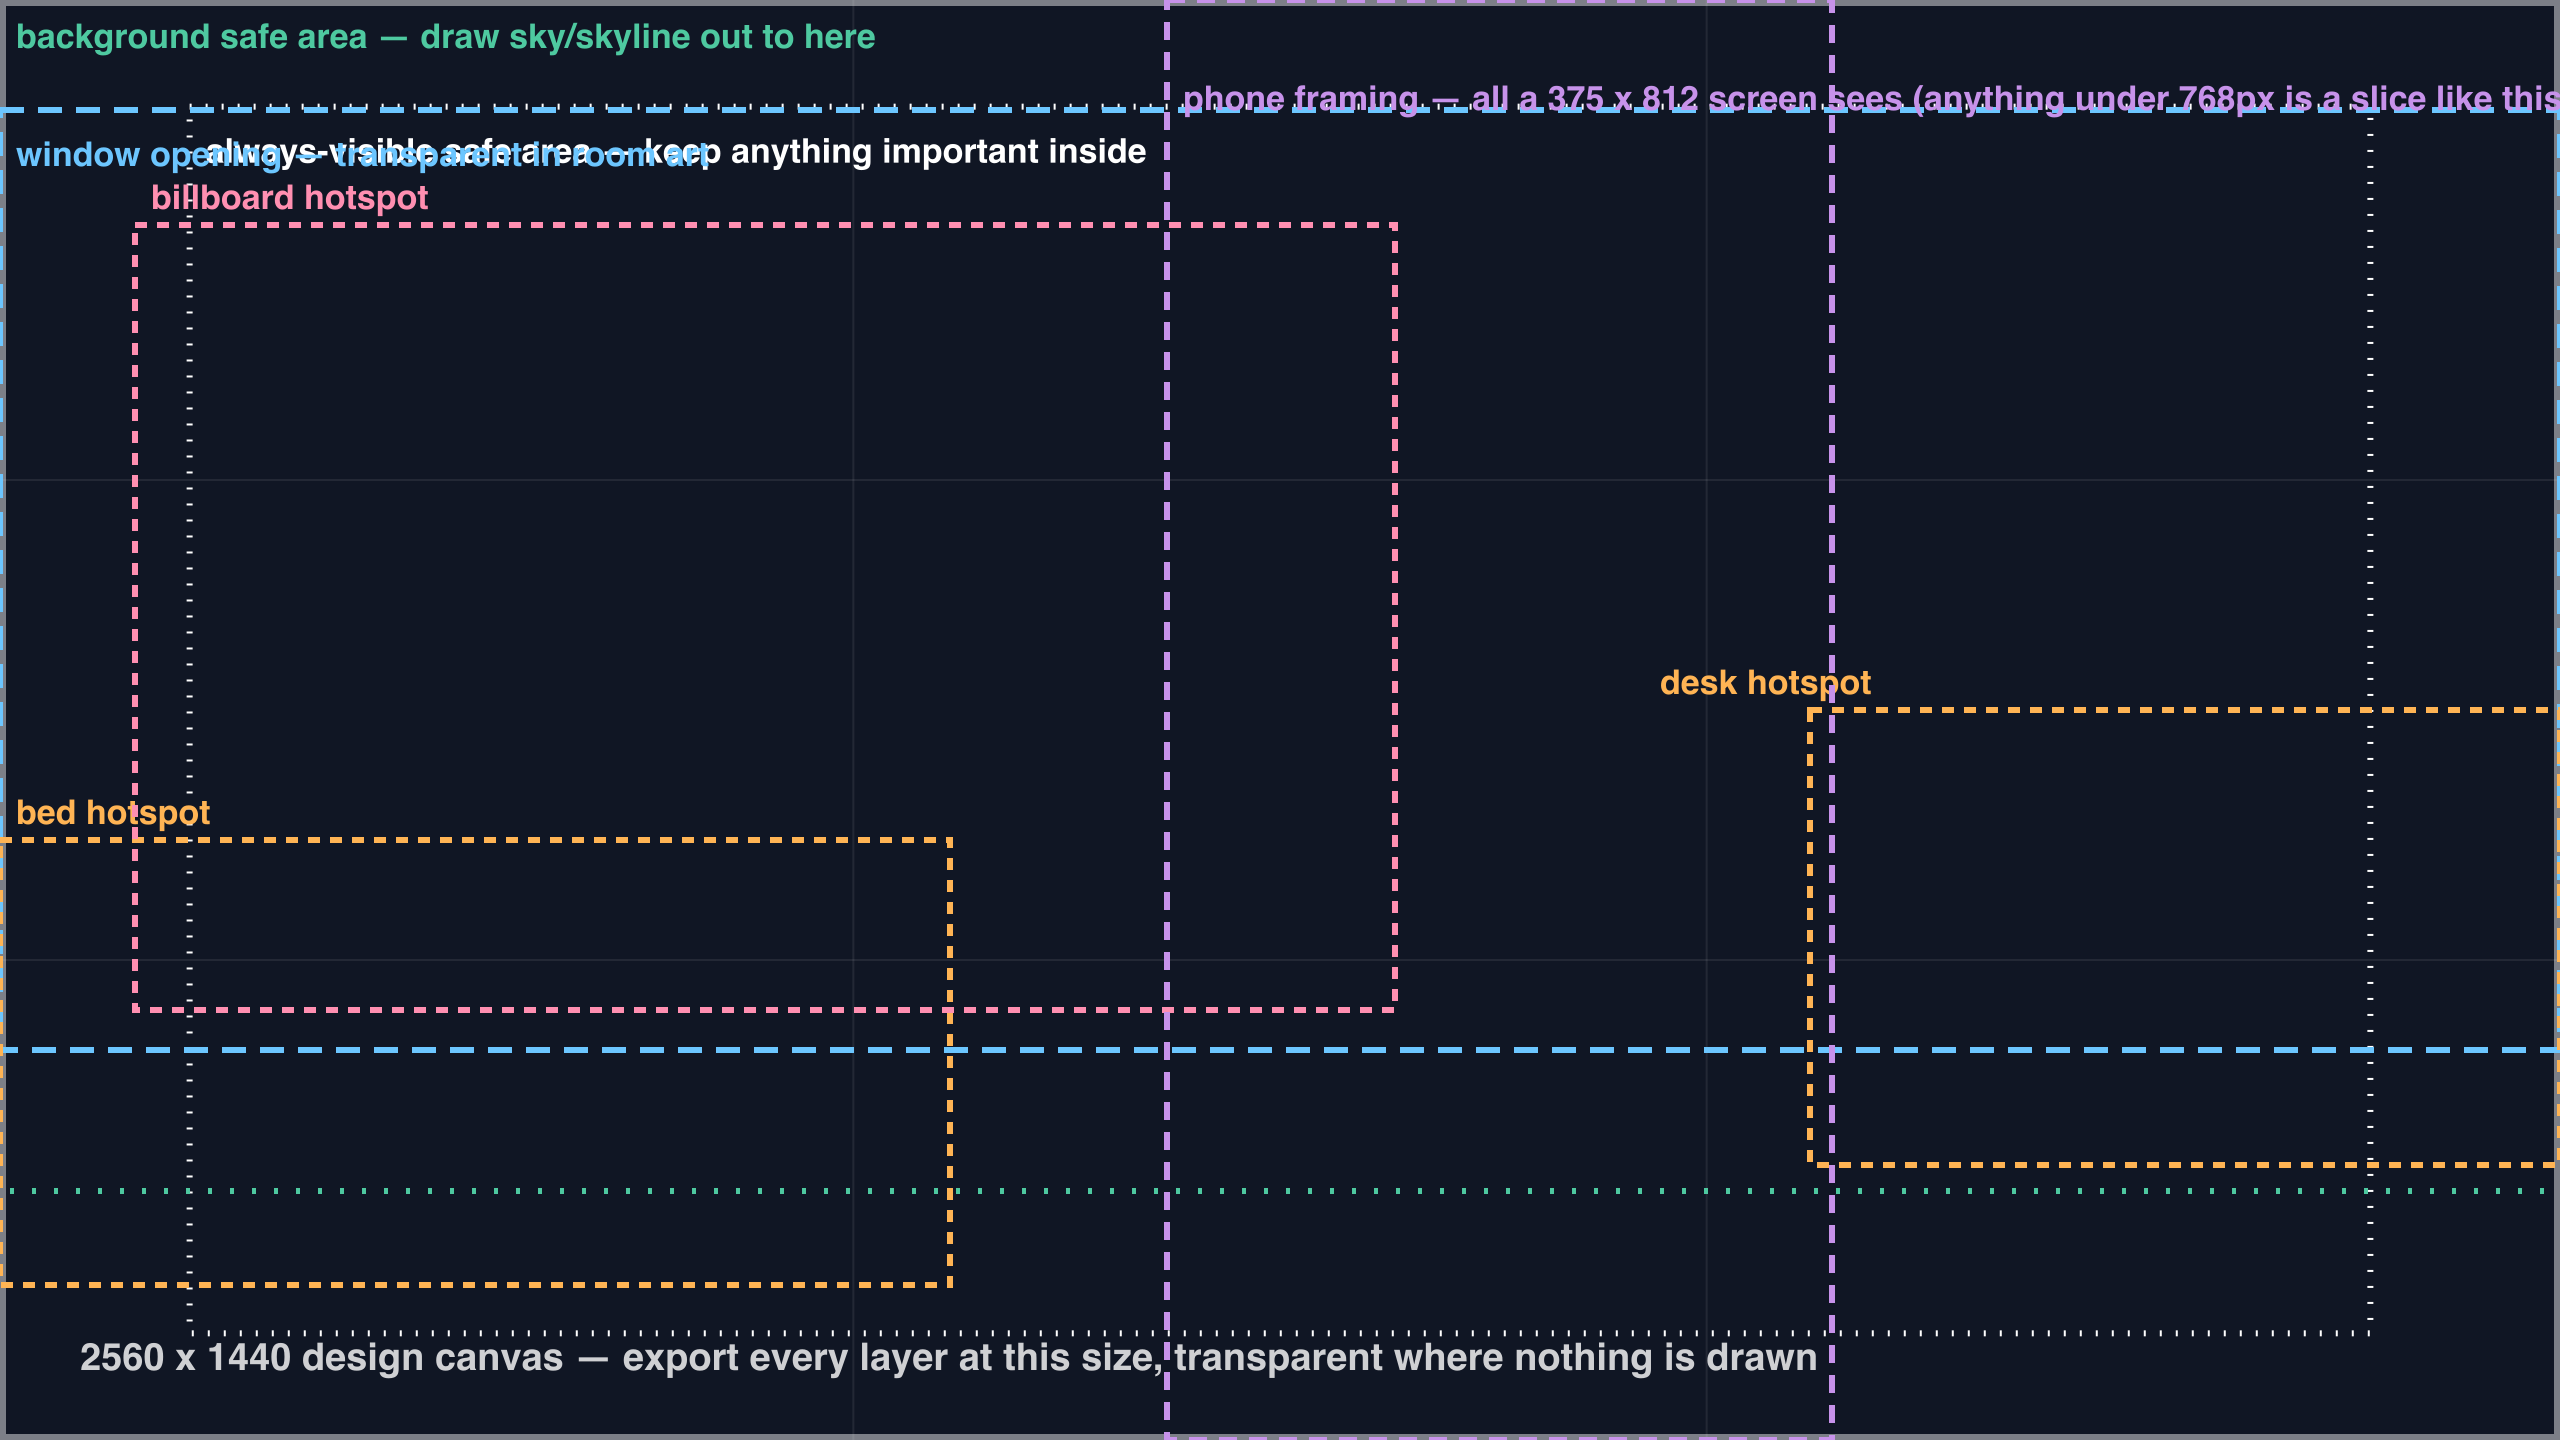
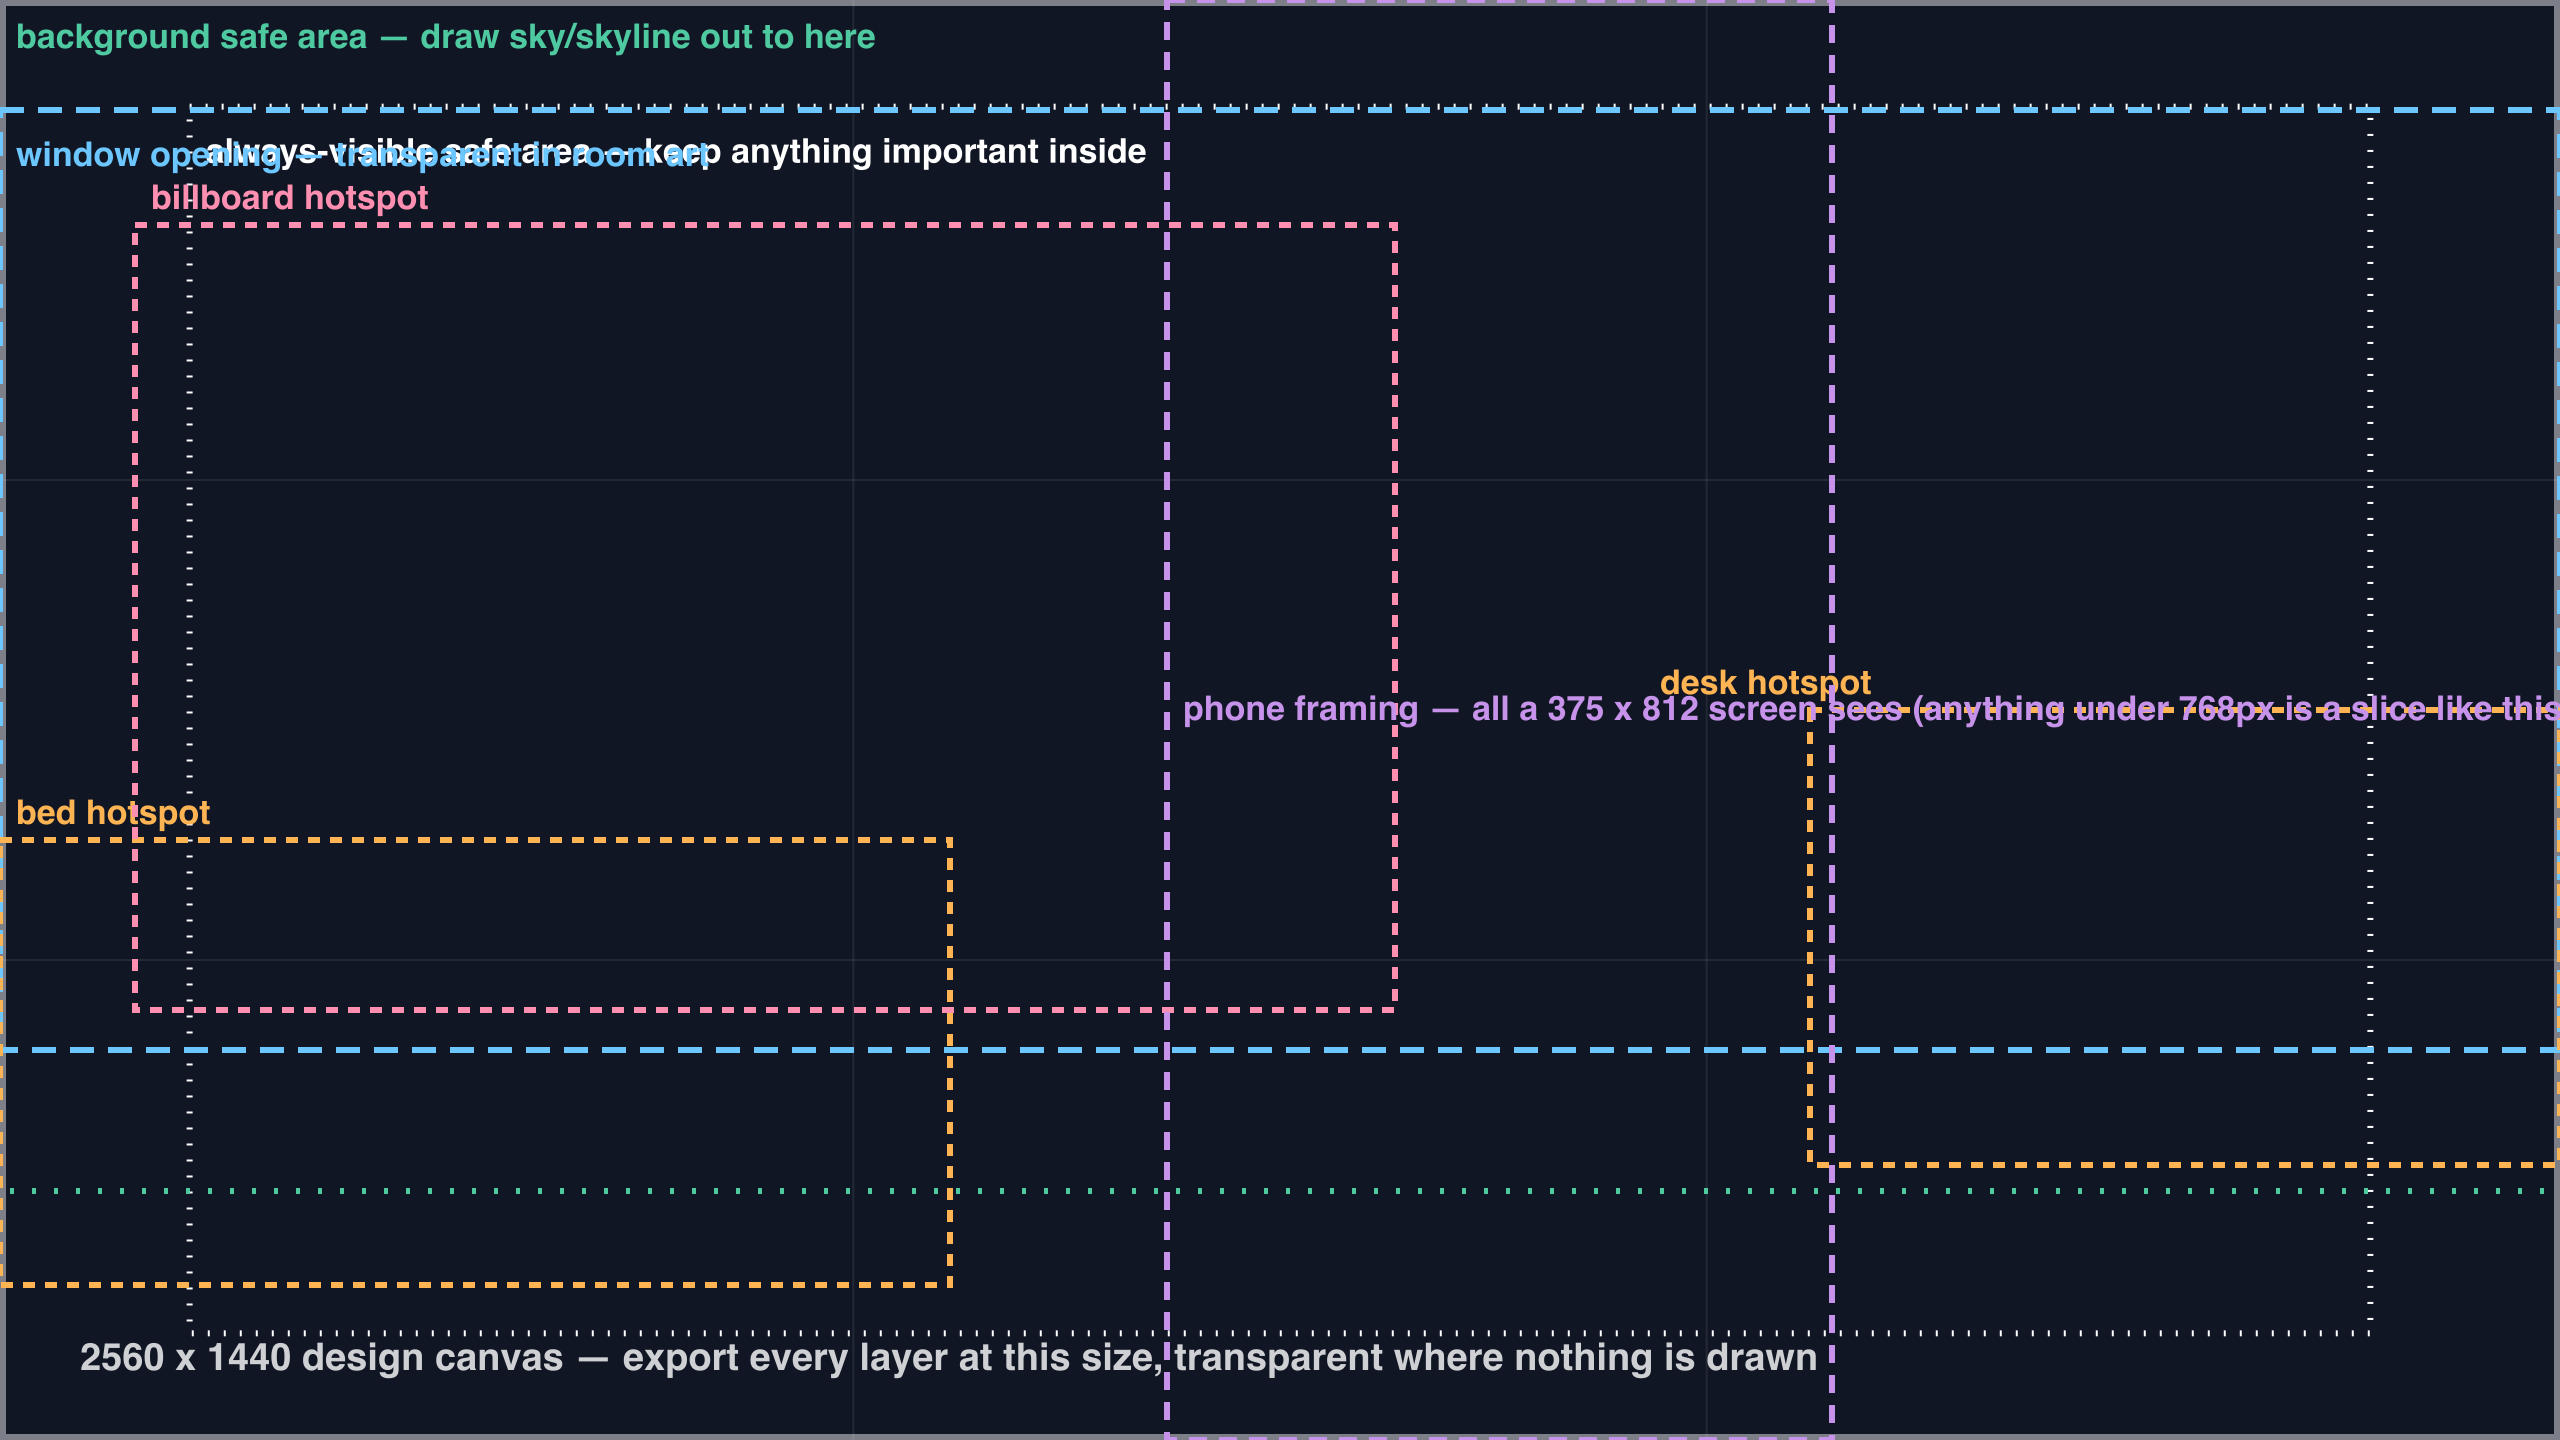
Move the phone-framing label clear of the template's other legends
Four guides already label the top of the canvas, so the new one landed on top
of them and the legend it was meant to be was unreadable. Down the middle of
the slice instead, where it has the canvas to itself.

Changed region(s): [[0.4688, 0.4688, 1.0, 0.5], [0.4688, 0.0625, 1.0, 0.0938]]

diff --git a/scripts/make-placeholder-art.ts b/scripts/make-placeholder-art.ts
@@ -139,7 +139,9 @@ function buildTemplate(): Buffer {
         '18 12',
         `phone framing — all a ${PHONE.width} x ${PHONE.height} screen sees ` +
           `(anything under ${NARROW_WIDTH}px is a slice like this)`,
-        PHONE_SLICE.y + 110,
+        // Down the middle of the canvas: the top of this guide is where four other
+        // labels already are, and a legend that cannot be read is not a legend.
+        SCENE_H / 2,
       ) +
       `<text x="80" y="${SCENE_H - 70}" font-family="Helvetica, Arial, sans-serif" font-size="38" font-weight="700" fill="rgba(255,255,255,0.8)">` +
       `${SCENE_W} x ${SCENE_H} design canvas — export every layer at this size, transparent where nothing is drawn` +
